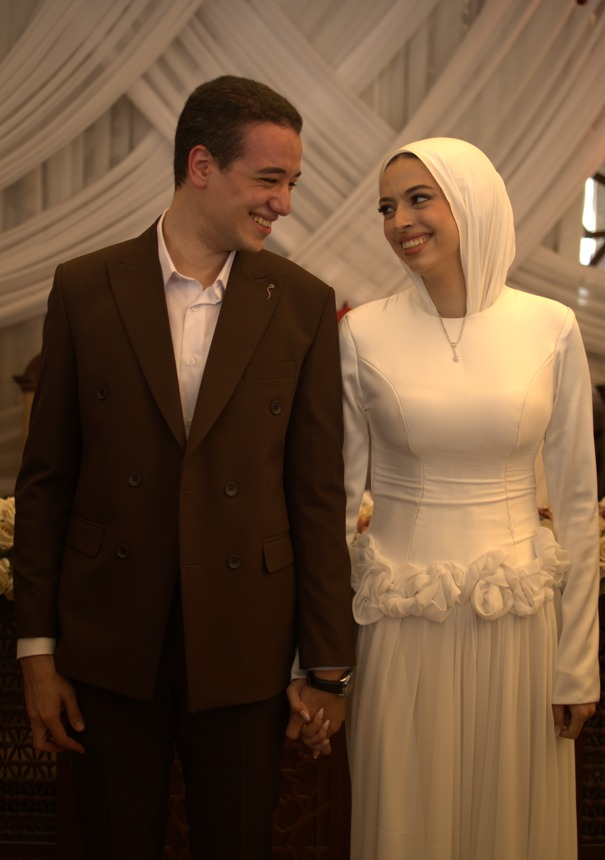
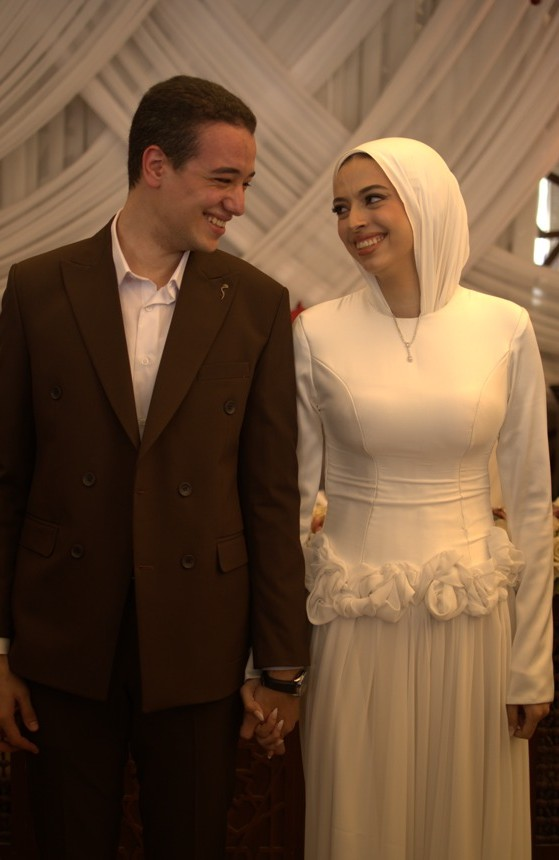
removing welcome page and center the background

diff --git a/index.html b/index.html
@@ -131,7 +131,16 @@
                 id="wedding-date"
                 class="wedding-date"
             ></p>
-
+            <br>
+                        <div class="ornament">
+                ✦
+            </div>
+            <br>
+            <p
+                id="welcome-message"
+                class="large-text"
+            ></p>
+            <br>
 
             <div class="scroll-indicator">
                 ↓
@@ -140,43 +149,6 @@
         </div>
 
     </section>
-
-
-
-    <!-- =================================================
-         WELCOME
-         ================================================= -->
-
-    <section
-        id="welcome-section"
-        class="section"
-    >
-
-        <div class="content">
-
-            <div class="ornament">
-                ✦
-            </div>
-
-
-            <h2 id="welcome-title"></h2>
-
-
-            <div class="gold-line"></div>
-
-
-            <p
-                id="welcome-message"
-                class="large-text"
-            ></p>
-
-        </div>
-
-    </section>
-
-
-
-
 
     <!-- =================================================
          WEDDING DETAILS
